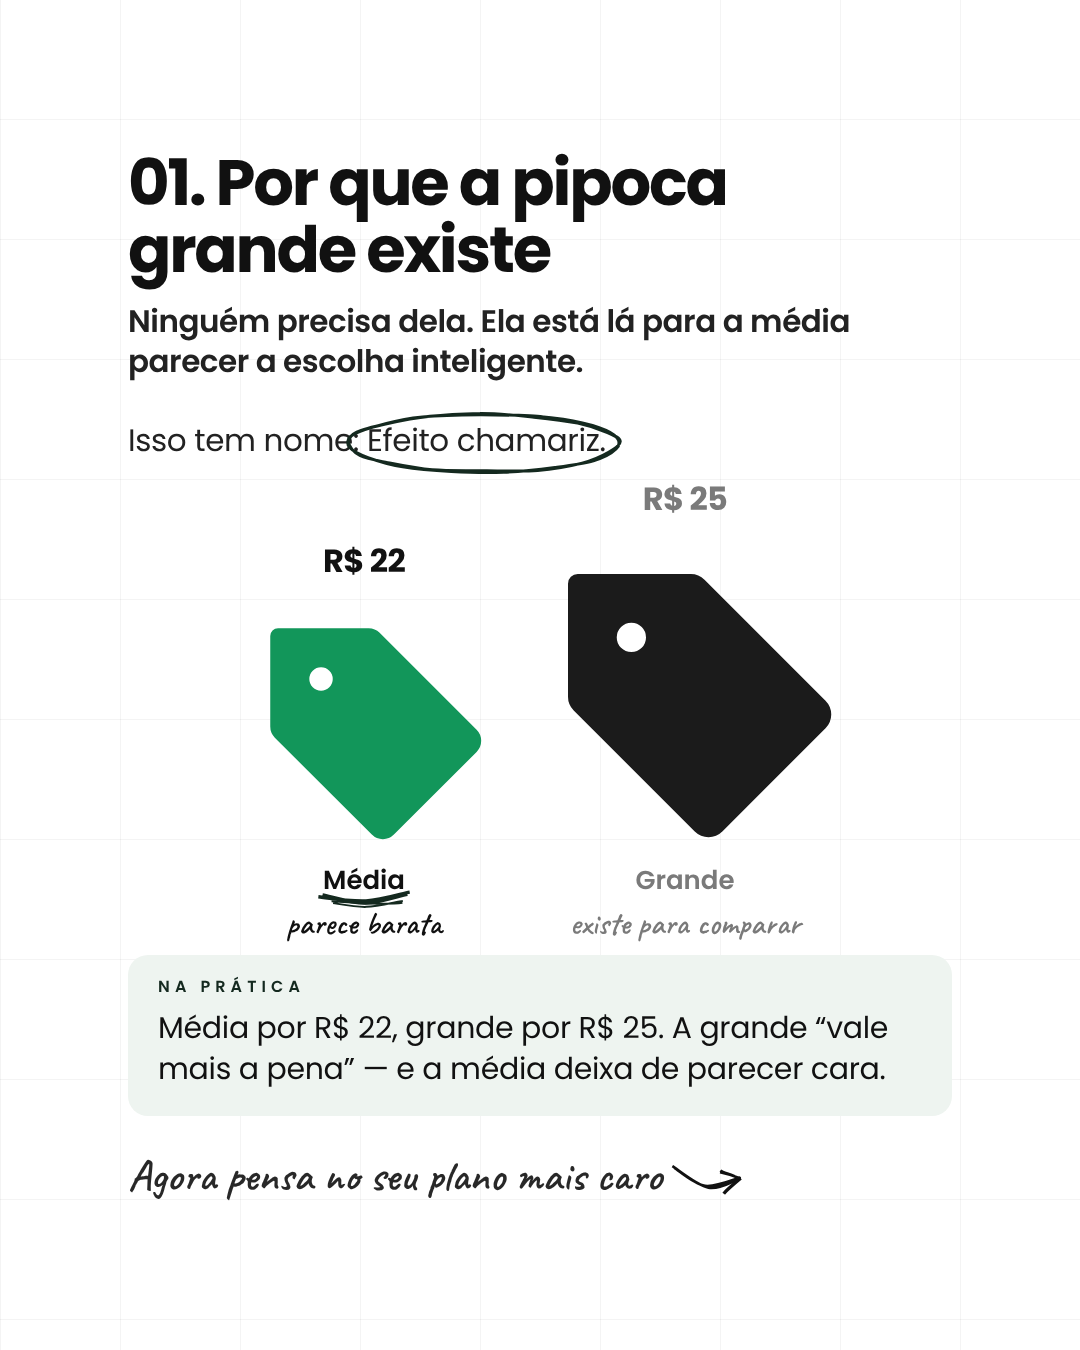
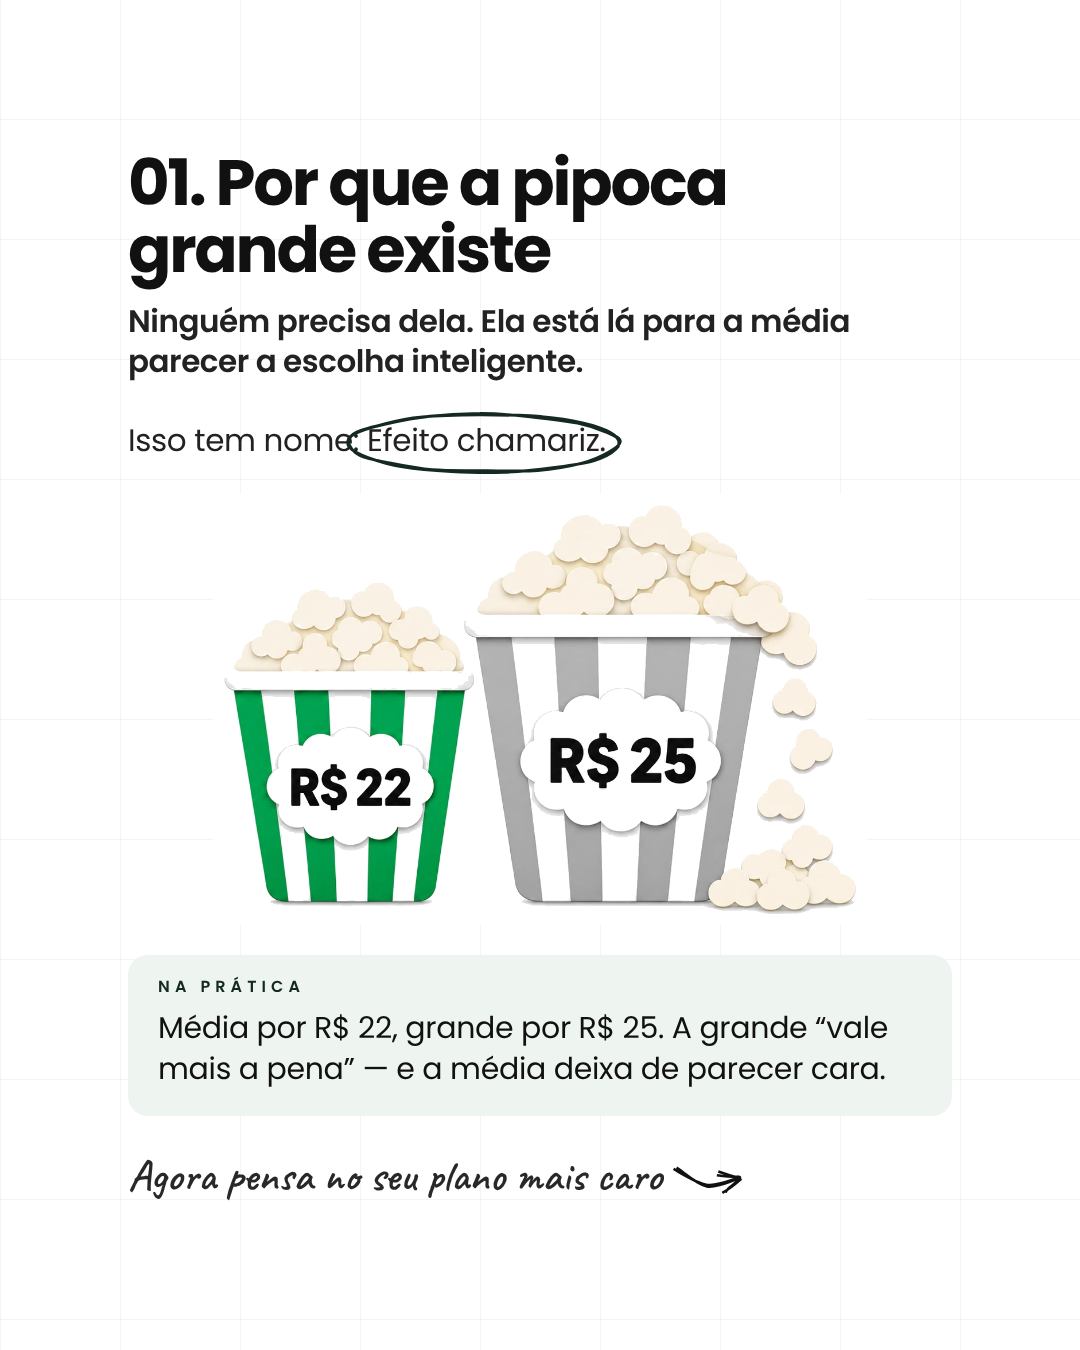
Carrossel 06: capa centralizada na foto da pipoca, recorte refinado e novas ilustrações
Claude-Session: https://claude.ai/code/session_01CR2zLXebwu2nvAjBiSDjK9

Changed region(s): [[0.2139, 0.3422, 0.7944, 0.7156], [0.6417, 0.8711, 0.6722, 0.9022]]

diff --git a/carrossel/capa-motor.html b/carrossel/capa-motor.html
@@ -99,6 +99,7 @@ window.loadCapa = async function(spec){
         for(let x=0;x<1080;x++){ if(P.desc[x]==null) continue;
           if(below.absTopB[x]!=null) best=Math.min(best, below.absTopB[x]-gap-P.desc[x]);
           if(below.absTop[x]!=null)  best=Math.min(best, below.absTop[x]-gapA-P.desc[x]); }
+        if(spec.acento_abaixo){ const mt=Math.min(...below.absTop.filter(v=>v!=null)); best=Math.min(best, mt-(spec.acento_folga ?? 4)) }
         return best===Infinity ? below.top-gap-P.maxDesc : best };
       base=fitBase(pr);
       // encaixe: se um acento da linha de baixo bate na de cima, desloca a de cima até 90px à direita
